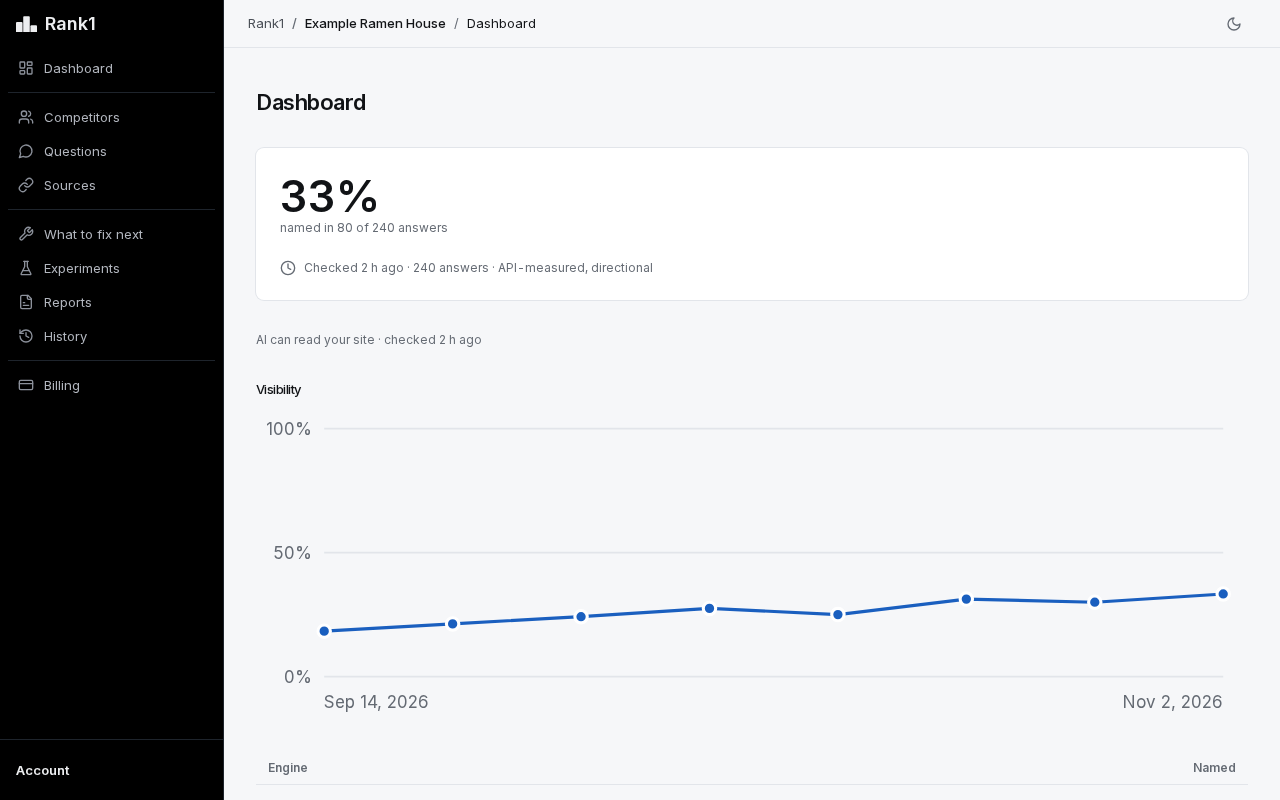
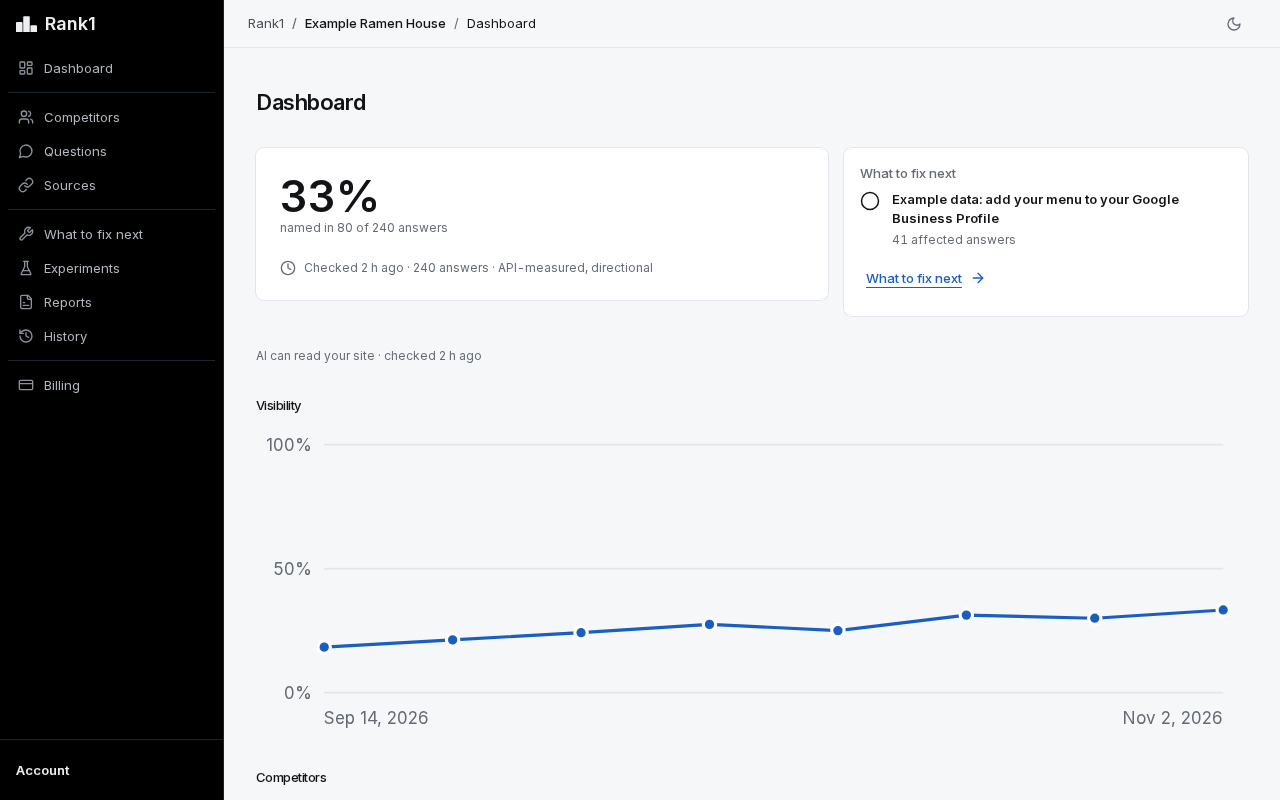
docs(qa): G2 shots after #136 and #138 (reassure after the next-fix card)

diff --git a/docs/progress/2026-11-06-gas-ai-access-ui.md b/docs/progress/2026-11-06-gas-ai-access-ui.md
@@ -12,5 +12,5 @@
 - Where it shows:
   - /audit: below the leaderboard (U6). loadFreeAudit reads getAiAccessCheck with the service client, only with the flag on.
   - What to fix next: the panel is the `evidence` on R14/R16/R18 open rows (FixView.evidence, a new slot). With X7 (#136) it sits inside the open fix's collapsible body, never on a one-line row. There the crawlers stack as a list, because the table doesn't fit a phone-width fix row.
-  - /app dashboard: one quiet "AI can read your site · checked {age} ago" line under the hero, only when the outcome is good (Dashboard `reassure` slot). Problems are P5 fixes, which the next-fix card already leads with.
+  - /app dashboard: one quiet "AI can read your site · checked {age} ago" line after the hero and the next-fix card (#138), before the C-b card, only when the outcome is good (Dashboard `reassure` slot). Problems are P5 fixes, which the next-fix card already leads with.
 - Not done: the /client fix list gets no evidence yet, and the paid run page (/app/runs) shows no panel. The lead scoped G2 to /audit and What to fix next.
